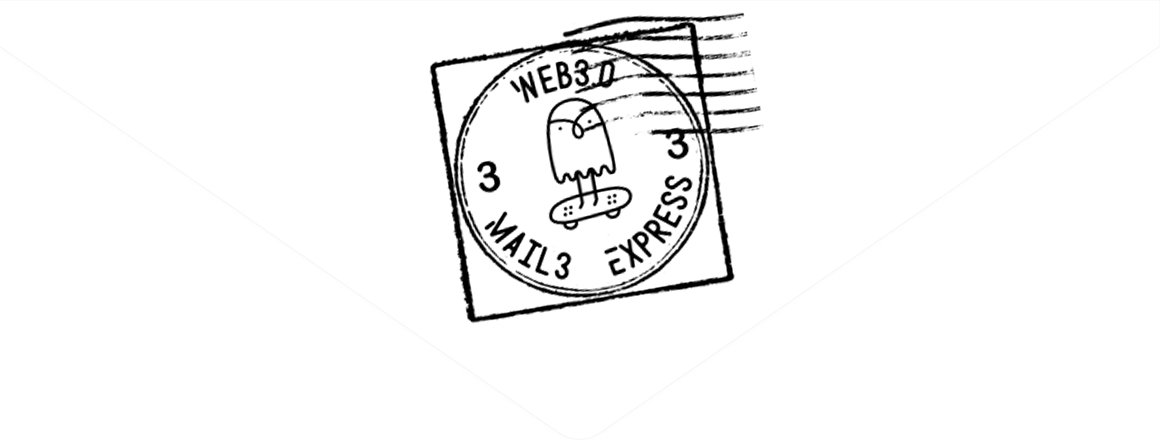
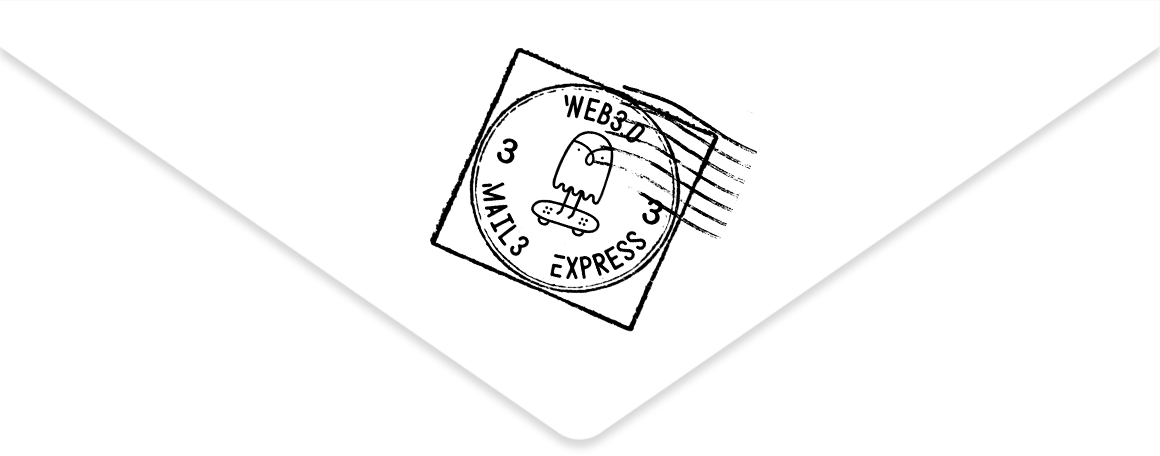
feat: update source material, link and style

diff --git a/apps/home/components/Home/rainbowBar.tsx b/apps/home/components/Home/rainbowBar.tsx
@@ -1,4 +1,4 @@
-import React from 'react'
+import React, { useMemo } from 'react'
 import { Box, Center, Link } from '@chakra-ui/react'
 import NextLink from 'next/link'
 import { useTranslation } from 'next-i18next'
@@ -32,45 +32,57 @@ export const RainbowBarContainer = styled(Center)`
 
 export const RainbowBar: React.FC = () => {
   const { t } = useTranslation('index')
+  const contentEl = useMemo(() => {
+    if (isWhiteListStage()) {
+      return (
+        <>
+          {t('heading-banner-text.white-list')}
+
+          <NextLink href="/testing">
+            <Link
+              fontWeight="bold"
+              textDecoration="underline"
+              display="inline-block"
+            >
+              {t('join')}
+            </Link>
+          </NextLink>
+        </>
+      )
+    }
+    if (isBetaTestingStage()) {
+      return (
+        <>
+          {t('heading-banner-text.beta-testing')}
+          <NextLink href={WHITE_LIST_URL}>
+            <Link
+              fontWeight="bold"
+              textDecoration="underline"
+              display="inline-block"
+            >
+              {t('join_white_list')}
+            </Link>
+          </NextLink>
+        </>
+      )
+    }
+    return null
+  }, [])
+
   return (
     <RainbowBarContainer
       minH="44px"
+      maxH="44px"
       textAlign="center"
       py="6px"
       px="20px"
       top="0"
-      whiteSpace="nowrap"
+      fontSize={{
+        base: '12px',
+        md: '20px',
+      }}
     >
-      <Box>
-        {isWhiteListStage() ? (
-          <>
-            {t('heading-banner-text.beta-testing')}
-            <NextLink href="/testing">
-              <Link
-                fontWeight="bold"
-                textDecoration="underline"
-                display="inline-block"
-              >
-                {t('join')}
-              </Link>
-            </NextLink>
-          </>
-        ) : null}
-        {isBetaTestingStage() ? (
-          <>
-            {t('heading-banner-text.white-list')}
-            <NextLink href={WHITE_LIST_URL}>
-              <Link
-                fontWeight="bold"
-                textDecoration="underline"
-                display="inline-block"
-              >
-                {t('join_white_list')}
-              </Link>
-            </NextLink>
-          </>
-        ) : null}
-      </Box>
+      <Box>{contentEl}</Box>
     </RainbowBarContainer>
   )
 }

diff --git a/apps/home/components/Home/dao.tsx b/apps/home/components/Home/dao.tsx
@@ -16,9 +16,9 @@ import styled from '@emotion/styled'
 import { fromEvent } from 'rxjs'
 import Illustration2Svg from '../../assets/svg/illustration/2.svg'
 import TwitterIconSvg from '../../assets/svg/socialMedia/twitter.svg'
-import MediumIconSvg from '../../assets/svg/socialMedia/medium.svg'
 import MirrorIconSvg from '../../assets/svg/socialMedia/mirror.svg'
 import DiscordIconSvg from '../../assets/svg/socialMedia/discord.svg'
+import { DISCORD_URL, MIRROR_URL, TWITTER_URL } from '../../constants/env'
 
 const IllustrationText = styled(Box)`
   font-family: NanumPenScript-Regular, serif;
@@ -184,28 +184,39 @@ export const Dao = () => {
             }}
             maxW={{ base: '200px', md: 'unset' }}
           >
-            <Link href="#">
+            <Link
+              href={TWITTER_URL}
+              _hover={{ transform: 'scale(1.2)' }}
+              transition="100ms"
+              h="40px"
+              rounded="100px"
+            >
               <Icon
                 as={TwitterIconSvg}
                 w={{ base: '25px', md: '40px' }}
                 h="auto"
               />
             </Link>
-            <Link href="#">
-              <Icon
-                as={MediumIconSvg}
-                w={{ base: '25px', md: '40px' }}
-                h="auto"
-              />
-            </Link>
-            <Link href="#">
+            <Link
+              href={MIRROR_URL}
+              _hover={{ transform: 'scale(1.2)' }}
+              transition="100ms"
+              h="40px"
+              rounded="100px"
+            >
               <Icon
                 as={MirrorIconSvg}
                 w={{ base: '25px', md: '40px' }}
                 h="auto"
               />
             </Link>
-            <Link href="#">
+            <Link
+              href={DISCORD_URL}
+              _hover={{ transform: 'scale(1.2)' }}
+              transition="100ms"
+              h="40px"
+              rounded="100px"
+            >
               <Icon
                 as={DiscordIconSvg}
                 w={{ base: '25px', md: '40px' }}

diff --git a/apps/home/components/Home/rollingSubtitles.tsx b/apps/home/components/Home/rollingSubtitles.tsx
@@ -84,34 +84,30 @@ export const RollingBackground = () => (
 )
 
 export const RollingSubtitles = () => (
-  <Box bg="#000" h="44px" overflow="hidden" position="relative">
+  <Box
+    bg="#000"
+    h="44px"
+    overflow="hidden"
+    position="relative"
+    color="#fff"
+    fontSize="16px"
+  >
     <RollingSubtitlesWithAnimation lineHeight="44px" fontWeight="bold">
-      <Flex minW="100vh" justify="space-between">
-        {new Array(30).fill(0).map((_, i) => (
-          // eslint-disable-next-line react/no-array-index-key
-          <React.Fragment key={i}>
-            <Box as="span" mr="20px" w="60px" textAlign="center">
-              Web3.0
-            </Box>
-            <Box as="span" mr="20px" w="60px" textAlign="center">
-              Mail3
-            </Box>
-          </React.Fragment>
+      {new Array(2)
+        .fill(0)
+        .map((_, i) => i)
+        .map((k) => (
+          <Box minW="100vh" key={k}>
+            {new Array(10)
+              .fill(0)
+              .map((_, i) => i)
+              .map((i) => (
+                <React.Fragment key={i}>
+                  Web3.0&nbsp;&nbsp;&nbsp;&nbsp;&nbsp;&nbsp;Mail3&nbsp;&nbsp;&nbsp;&nbsp;&nbsp;&nbsp;
+                </React.Fragment>
+              ))}
+          </Box>
         ))}
-      </Flex>
-      <Flex minW="100vh" justify="space-between">
-        {new Array(30).fill(0).map((_, i) => (
-          // eslint-disable-next-line react/no-array-index-key
-          <React.Fragment key={i}>
-            <Box as="span" mr="20px" w="60px" textAlign="center">
-              Web3.0
-            </Box>
-            <Box as="span" mr="20px" w="60px" textAlign="center">
-              Mail3
-            </Box>
-          </React.Fragment>
-        ))}
-      </Flex>
     </RollingSubtitlesWithAnimation>
   </Box>
 )

diff --git a/apps/home/constants/env.ts b/apps/home/constants/env.ts
@@ -1,10 +1,15 @@
 export const APP_URL = process.env.NEXT_PUBLIC_APP_URL || 'https://mail3.app'
-export const TWITTER_URL = process.env.NEXT_PUBLIC_TWITTER_URL || '#'
-export const DISCORD_URL = process.env.NEXT_PUBLIC_DISCORD_URL || '#'
+export const TWITTER_URL =
+  process.env.NEXT_PUBLIC_TWITTER_URL || 'https://twitter.com/mail3dao'
+export const DISCORD_URL =
+  process.env.NEXT_PUBLIC_DISCORD_URL || 'https://discord.gg/J3ac6YcXUU'
 export const LIGHT_PAPER_URL = process.env.NEXT_PUBLIC_LIGHT_PAPER_URL || '#'
-export const WHITE_LIST_URL = process.env.NEXT_PUBLIC_WHITE_LIST_URL || '#'
-export const MIRROR_URL = process.env.NEXT_PUBLIC_MIRROR_URL || '#'
-export const MEDIUM_URL = process.env.NEXT_PUBLIC_MEDIUM_URL || '#'
+export const WHITE_LIST_URL =
+  process.env.NEXT_PUBLIC_WHITE_LIST_URL || '/whitelist'
+export const MIRROR_URL =
+  process.env.NEXT_PUBLIC_MIRROR_URL || 'https://mirror.xyz/mail3dao.eth'
+export const MEDIUM_URL =
+  process.env.NEXT_PUBLIC_MEDIUM_URL || 'https://medium.com/@mail3'
 export const CONTACT_US_URL =
   process.env.NEXT_PUBLIC_CONTACT_US_URL || 'mailto:mail3dao.eth@mail3.me'
 export const IS_FORCE_WHITELIST = true

diff --git a/apps/home/components/Home/banner.tsx b/apps/home/components/Home/banner.tsx
@@ -13,6 +13,7 @@ import HomeGridBgSvgPath from '../../assets/svg/home-grid-bg.svg?url'
 import Illustration1Svg from '../../assets/svg/illustration/1.svg'
 import Illustration1Png from '../../assets/png/illustration/1.png'
 import Illustration3Png from '../../assets/png/illustration/3.png'
+import Illustration8Png from '../../assets/png/illustration/8.png'
 import { HEADER_BAR_HEIGHT } from './navbar'
 
 export const Banner: React.FC<FlexProps> = ({ ...props }) => (
@@ -64,7 +65,7 @@ export const Banner: React.FC<FlexProps> = ({ ...props }) => (
           h="auto"
           position="absolute"
           top="5%"
-          right="20%"
+          left="70vw"
         />
       </Box>
       <Image
@@ -73,6 +74,13 @@ export const Banner: React.FC<FlexProps> = ({ ...props }) => (
         w="120px"
         bottom="20%"
         left="0"
+      />
+      <Image
+        src={Illustration8Png.src}
+        position="absolute"
+        w="400px"
+        bottom="20%"
+        left="calc(70vw - 200px)"
       />
       <Center position="relative" w="full" my="auto" flex={1}>
         <Heading

diff --git a/apps/home/components/Home/footer.tsx b/apps/home/components/Home/footer.tsx
@@ -14,11 +14,9 @@ import LogoWithWhiteFontColorSvg from 'assets/svg/logo-with-white-font.svg'
 import TwitterIconSvg from '../../assets/svg/socialMedia/twitter.svg'
 import DiscordIconSvg from '../../assets/svg/socialMedia/discord.svg'
 import MirrorIconSvg from '../../assets/svg/socialMedia/mirror.svg'
-import MediumIconSvg from '../../assets/svg/socialMedia/medium.svg'
 import {
   CONTACT_US_URL,
   DISCORD_URL,
-  MEDIUM_URL,
   MIRROR_URL,
   TWITTER_URL,
 } from '../../constants/env'
@@ -96,12 +94,6 @@ export const Footer = () => (
               <Icon as={MirrorIconSvg} w="20px" h="auto" mr="10px" />
               <Box as="span" display={{ base: 'none', md: 'inline' }}>
                 Mirror
-              </Box>
-            </Link>
-            <Link href={MEDIUM_URL} display="flex" alignItems="center">
-              <Icon as={MediumIconSvg} w="20px" h="auto" mr="10px" />
-              <Box as="span" display={{ base: 'none', md: 'inline' }}>
-                Medium
               </Box>
             </Link>
           </Stack>

diff --git a/apps/home/components/Home/navbar/menu.tsx b/apps/home/components/Home/navbar/menu.tsx
@@ -37,6 +37,7 @@ const menuButtonProps: ButtonProps = {
   textAlign: 'left',
   h: 'auto',
   rounded: '0',
+  borderBottom: '1px solid #e7e7e7',
 }
 
 export const WhiteListButtons = () => (
@@ -57,19 +58,27 @@ export const WhiteListButtons = () => (
       <Link
         {...linkProps}
         _hover={{
-          textDecoration: 'none',
+          textDecoration: {
+            base: 'none',
+            md: 'underline',
+          },
         }}
+        textDecorationColor="#FFCD4B"
+        color="#FFCD4B"
         rounded="100px"
         position="relative"
         _after={{
-          content: '" "',
+          content: {
+            base: '" "',
+            md: 'none',
+          },
           display: 'block',
           bg: 'linear-gradient(90deg, #FFB1B1 0.01%, #FFCD4B 50.26%, #916BFF 99.99%)',
           w: 'full',
           h: 'full',
           rounded: '100px',
           position: 'absolute',
-          top: 0,
+          bottom: 0,
           left: 0,
           zIndex: 0,
         }}

diff --git a/apps/home/components/Home/entrance/index.tsx b/apps/home/components/Home/entrance/index.tsx
@@ -3,8 +3,7 @@ import React, { useEffect, useState } from 'react'
 import styled from '@emotion/styled'
 import LogoNoColor from 'assets/svg/logo-no-color.svg?url'
 import { useInnerSize } from 'hooks'
-import { isWhiteListStage, sleep } from '../../../utils'
-import { HEADER_BAR_HEIGHT } from '../navbar'
+import { sleep } from '../../../utils'
 
 const MOBILE_SIZE = 768
 
@@ -12,6 +11,7 @@ const BoxStyled = styled(Box)`
   width: 100%;
   height: 100%;
   position: relative;
+  cursor: pointer;
   &::before {
     content: ' ';
     display: block;
@@ -55,7 +55,6 @@ const BoxStyled = styled(Box)`
     }
     100% {
       opacity: 1;
-      cursor: pointer;
     }
   }
 `

diff --git a/apps/home/components/Home/whitelistGuide.tsx b/apps/home/components/Home/whitelistGuide.tsx
@@ -1,6 +1,8 @@
 import { Button, CONTAINER_MAX_WIDTH, LogoAnimation } from 'ui'
 import { Flex, Heading } from '@chakra-ui/react'
 import React from 'react'
+import NextLink from 'next/link'
+import { WHITE_LIST_URL } from '../../constants/env'
 
 export const WhitelistGuide = () => (
   <Flex
@@ -19,8 +21,10 @@ export const WhitelistGuide = () => (
       Now, hit the whitelist of Mail3
     </Heading>
     <LogoAnimation w="270px" mt="7px" />
-    <Button w="176px" mt="40px">
-      OK，Get in
-    </Button>
+    <NextLink href={WHITE_LIST_URL}>
+      <Button w="176px" mt="40px">
+        OK，Get in
+      </Button>
+    </NextLink>
   </Flex>
 )

diff --git a/apps/home/components/Home/index.tsx b/apps/home/components/Home/index.tsx
@@ -6,6 +6,7 @@ import { WhitelistGuide } from './whitelistGuide'
 import { Footer } from './footer'
 import { Entrance, EntranceStatus } from './entrance'
 import { ScrollAnimation } from './scrollAnimation'
+import { RollingSubtitles } from './rollingSubtitles'
 
 export const Home: React.FC = () => {
   const [status, setStatus] = useState<EntranceStatus>('opened')
@@ -25,6 +26,7 @@ export const Home: React.FC = () => {
           opacity: status === 'closing' || status === 'closed' ? 1 : 0,
         }}
       />
+      <RollingSubtitles />
       <Dao />
       <WhitelistGuide />
       <Footer />
